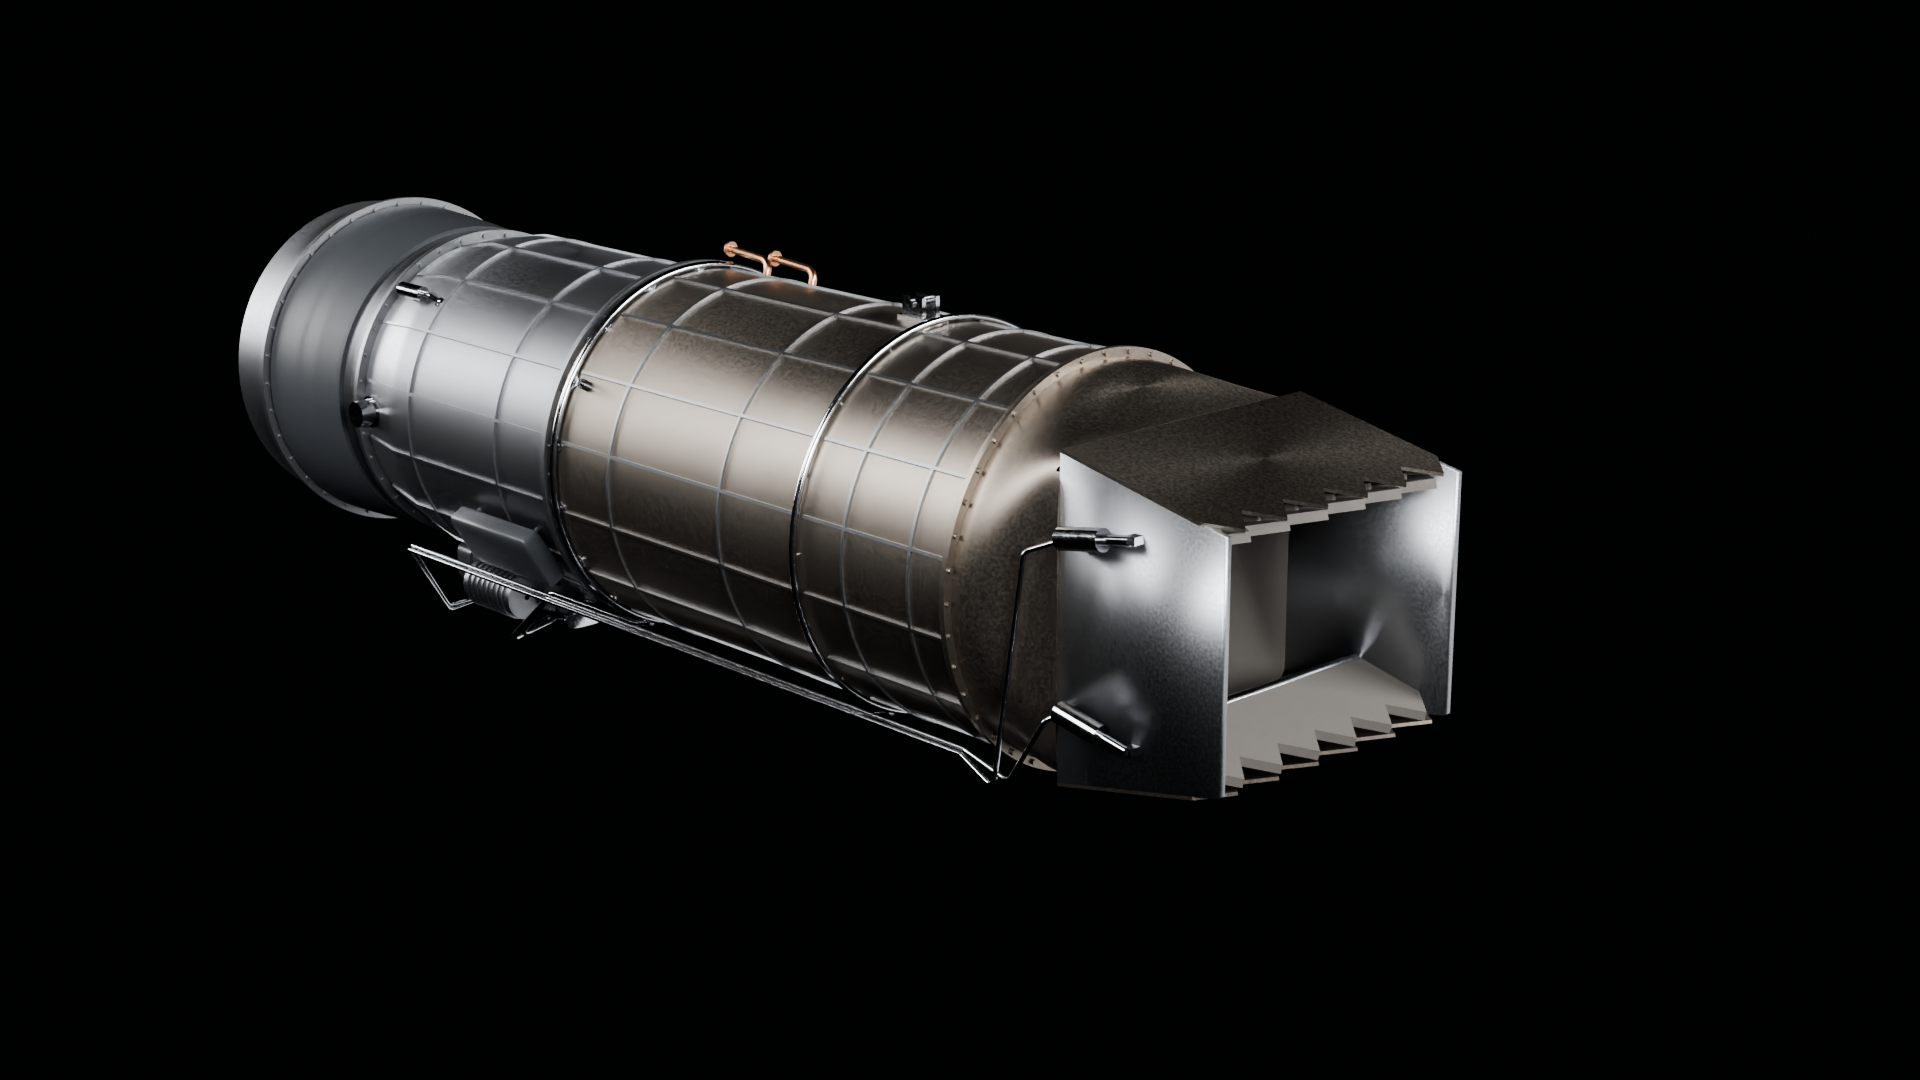
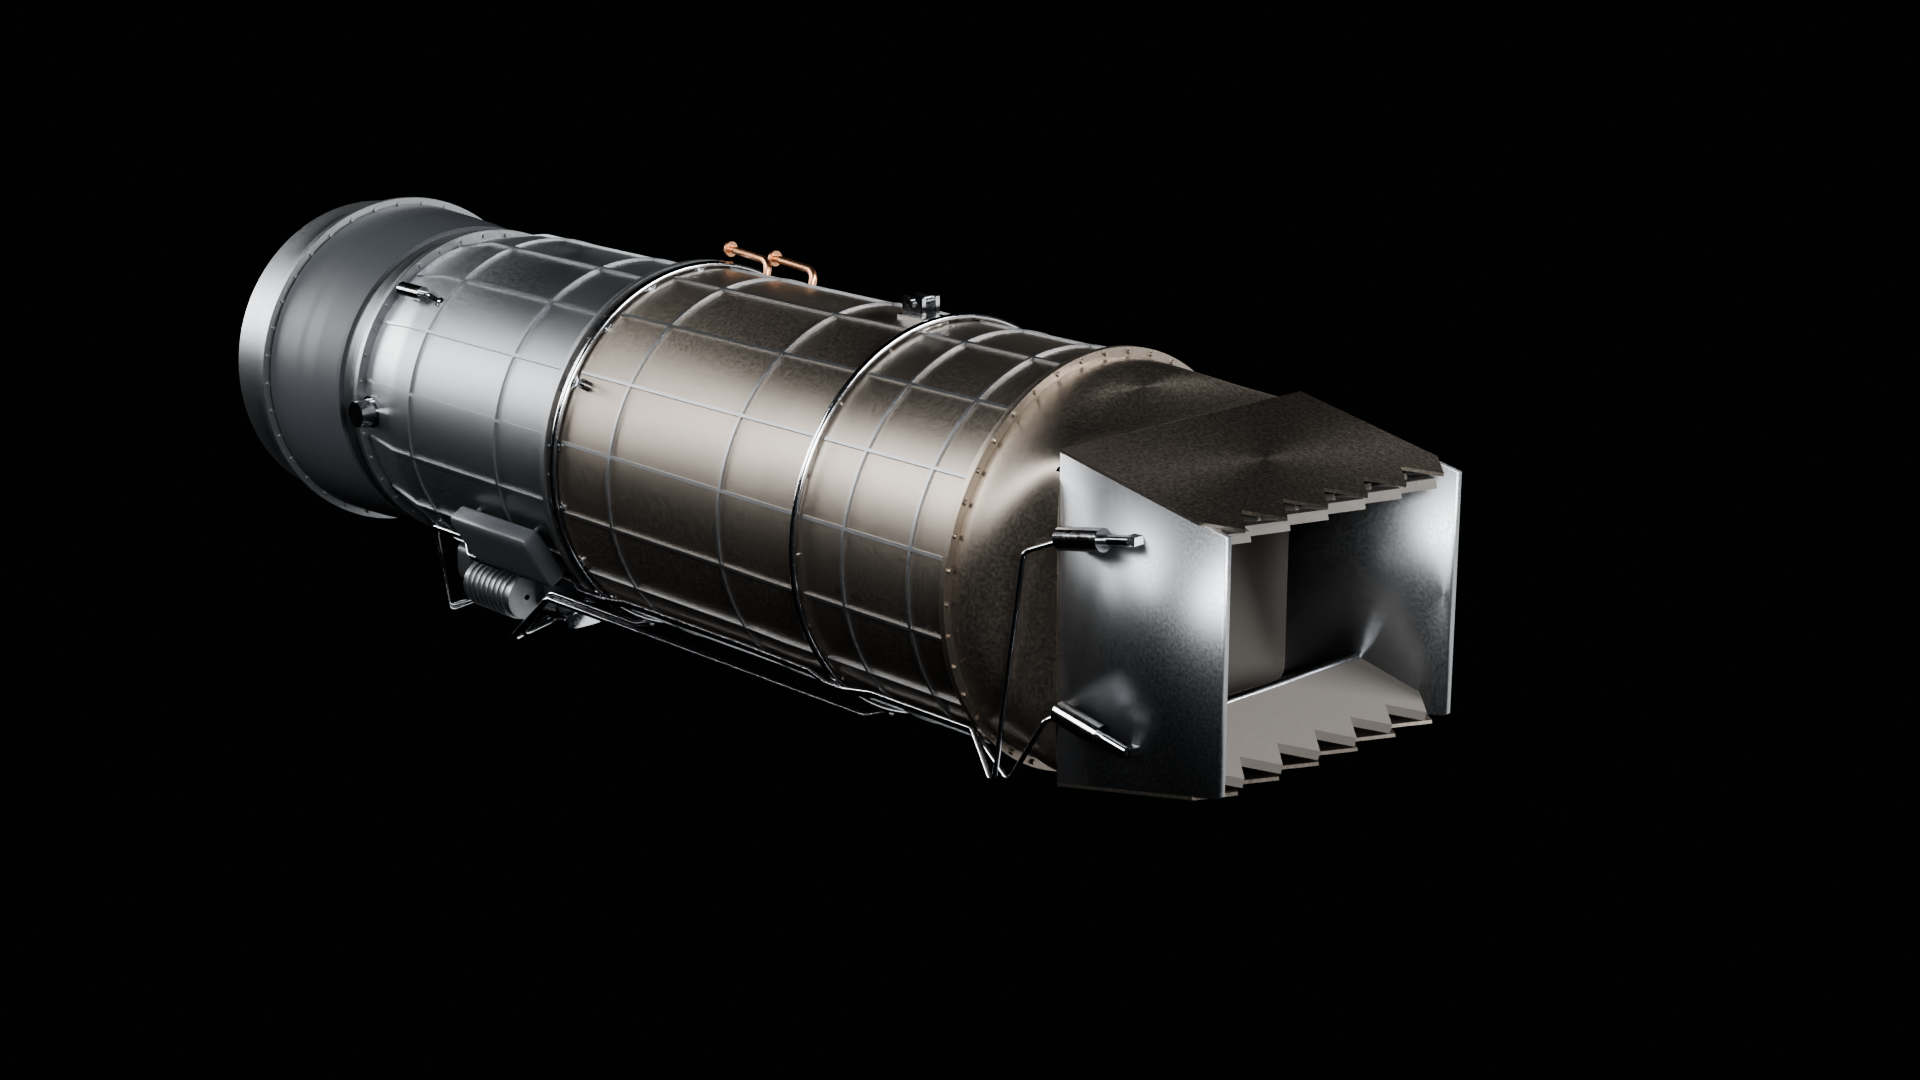
Lay the hydraulic lines along the case, over its ribs and rings, instead of strung 50-80 mm off it

Changed region(s): [[0.2188, 0.4889, 0.5312, 0.7333], [0.6562, 0.5194, 0.7188, 0.5806]]

diff --git a/engine/parts/accessories.py b/engine/parts/accessories.py
@@ -120,15 +120,32 @@ def _hydraulics():
     x_act = nz["x_trans1"] + 30.0
     z_act = nzl.H_TRANS * 0.62
     lines = []
-    r_run = 530.0
+    # Laid along the case, just over its ribs and lifted over the mid
+    # flange, the way a line clipped to a case runs. At a fixed 530 mm they
+    # stood 50-80 mm off the case the whole way aft, like wires strung past
+    # the engine.
+    cr = spec.CASE_RIBS
+
+    def over_case(x, extra):
+        r = outer_od(x) + cr["h"] + 6.0 + 2.0 + extra
+        # and over what rings the case: the FADEC harness, the mid flange
+        # with the fuel manifold and nozzles on it, the reheat manifold
+        for (a, b, top) in ((830.0, 970.0, 496.0), (1320.0, 1440.0, 485.0),
+                            (2300.0, 2380.0, 491.0)):
+            if a <= x <= b:
+                r = max(r, top + 6.0 + 2.5 + extra)
+        return r
     for sy, clock in ((-1.0, -135.0), (1.0, -45.0)):
         for sz, dz in ((-1.0, 0.0), (1.0, 14.0)):
-            r = r_run + dz
-            p_run = common.polar(0.0, r, clock)
+            # the pair on each side run side by side, 14 mm apart round
+            # the case rather than one over the other
+            ck = clock + sy * (dz / 470.0) * 57.3
+            run = [common.polar(x, over_case(x, 0.0), ck)
+                   for x in (620.0, 780.0, 840.0, 960.0, 1060.0, 1260.0,
+                             1330.0, 1430.0, 1520.0, 2000.0, 2240.0, 2310.0,
+                             2370.0, 2460.0, 2800.0)]
             path = [(470.0, sy * 20.0, zp),
-                    (470.0, sy * 200.0, zp - 6.0 - dz),
-                    (560.0, p_run[1], p_run[2]),
-                    (2800.0, p_run[1], p_run[2])]
+                    (470.0, sy * 200.0, zp - 6.0 - dz)] + run
             if sz < 0:
                 path += [(3000.0, sy * 432.0, -380.0 - dz),
                          (3110.0, sy * 432.0, -z_act - 20.0),
